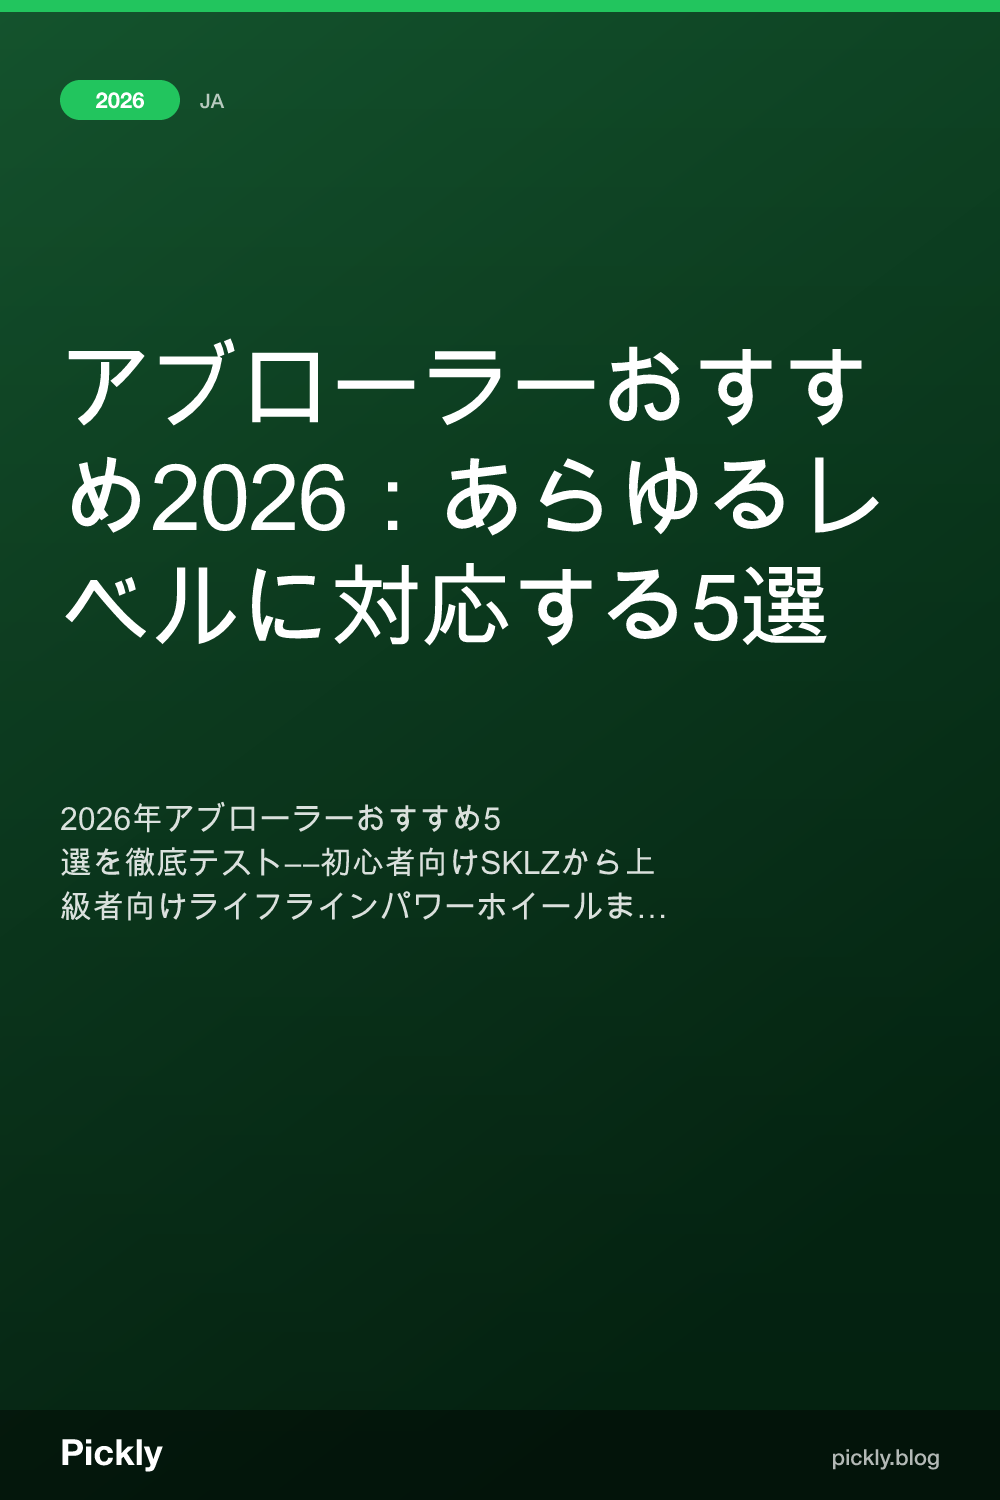
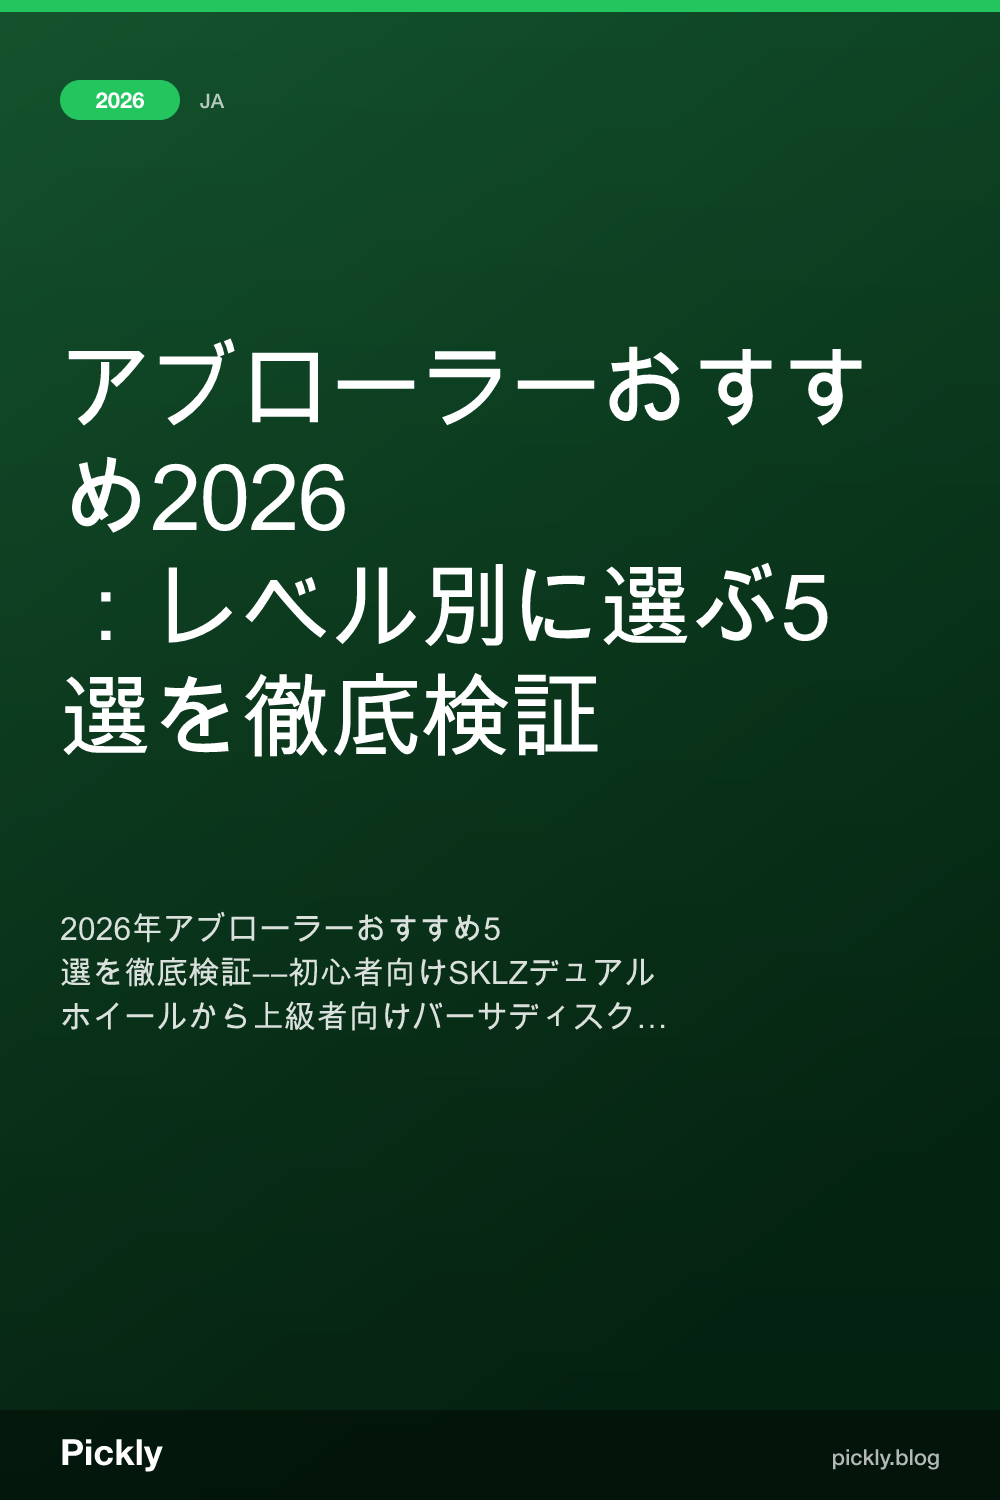
Add article #139: best-ab-roller-2026 (fitness, en+ja)

Changed region(s): [[0.062, 0.3067, 0.868, 0.7053]]

diff --git a/site/src/lib/affiliates/catalog.ts b/site/src/lib/affiliates/catalog.ts
@@ -7327,16 +7327,29 @@ const RAW_CATALOG: AffiliateOffer[] = [
   },
   // best-ab-roller-2026
   {
-    id: "ab-carver-pro",
+    id: "perfect-fitness-ab-carver-pro",
     category: "fitness",
     name: { en: "Perfect Fitness Ab Carver Pro", ja: "パーフェクトフィットネス アブカーバープロ" },
     description: {
-      en: "Carbon steel internal spring assists rollout, ultra-wide wheel for oblique carving, ergonomic 45-degree handles",
-      ja: "カーボンスチールスプリングでロールアウトをアシスト、超ワイドホイールで腹斜筋を刺激、45度人間工学的ハンドル",
+      en: "Carbon steel internal spring assists rollout phase, ultra-wide 7.5-inch wheel for oblique carving, ergonomic 45-degree handles to reduce wrist strain",
+      ja: "カーボンスチールスプリングでロールアウトをアシスト、幅約19cmの超ワイドホイールで腹斜筋を刺激、45度人間工学的ハンドルで手首負担軽減",
     },
     links: [
-      { network: "amazon-jp", productId: "amazon-jp-ab-carver-pro", rawUrl: "https://www.amazon.co.jp/s?k=perfect+fitness+ab+carver+pro", markets: ["JP"], approved: true },
-      { network: "moshimo", productId: "rakuten-ab-carver-pro", rawUrl: "https://af.moshimo.com/af/c/click?a_id=5538597&p_id=54&pc_id=54&pl_id=616&url=https%3A%2F%2Fsearch.rakuten.co.jp%2Fsearch%2Fmall%2F%E3%82%A2%E3%83%96%E3%82%AB%E3%83%BC%E3%83%90%E3%83%BC%2B%E3%83%97%E3%83%AD%2F", markets: ["JP"], approved: true },
+      { network: "amazon-jp", productId: "amazon-jp-perfect-fitness-ab-carver-pro", rawUrl: "https://www.amazon.co.jp/s?k=perfect+fitness+ab+carver+pro", markets: ["JP"], approved: true },
+      { network: "moshimo", productId: "rakuten-perfect-fitness-ab-carver-pro", rawUrl: "https://af.moshimo.com/af/c/click?a_id=5538597&p_id=54&pc_id=54&pl_id=616&url=https%3A%2F%2Fsearch.rakuten.co.jp%2Fsearch%2Fmall%2FPerfect+Fitness+Ab+Carver+Pro%2F", markets: ["JP"], approved: true },
+    ],
+  },
+  {
+    id: "elite-sportz-ab-roller",
+    category: "fitness",
+    name: { en: "Elite Sportz Ab Roller Wheel", ja: "エリートスポーツ アブローラーホイール" },
+    description: {
+      en: "Wide foam-grip wheel with excellent floor traction, no assembly required, ergonomic non-slip handles, knee pad included",
+      ja: "床グリップ優秀な幅広フォームグリップホイール、組み立て不要、滑り止め人間工学的ハンドル、ニーパッド付属",
+    },
+    links: [
+      { network: "amazon-jp", productId: "amazon-jp-elite-sportz-ab-roller", rawUrl: "https://www.amazon.co.jp/s?k=elite+sportz+ab+roller+wheel", markets: ["JP"], approved: true },
+      { network: "moshimo", productId: "rakuten-elite-sportz-ab-roller", rawUrl: "https://af.moshimo.com/af/c/click?a_id=5538597&p_id=54&pc_id=54&pl_id=616&url=https%3A%2F%2Fsearch.rakuten.co.jp%2Fsearch%2Fmall%2FElite+Sportz+Ab+Roller+Wheel%2F", markets: ["JP"], approved: true },
     ],
   },
   {
@@ -7344,51 +7357,38 @@ const RAW_CATALOG: AffiliateOffer[] = [
     category: "fitness",
     name: { en: "SKLZ Core Wheels", ja: "SKLZ コアホイール" },
     description: {
-      en: "Dual-wheel design for superior lateral stability, elevated handles for neutral wrist position, folds flat for storage",
-      ja: "デュアルホイールで横方向安定性抜群、高めハンドルで手首を自然な角度に保つ、折りたたみ収納",
+      en: "Dual independent wheels for lateral stability, elevated handles for neutral wrist position, folds flat for gym bag storage",
+      ja: "デュアル独立ホイールで横方向安定性抜群、高めハンドルで手首を自然な角度に保つ、折りたたみジムバッグ収納対応",
     },
     links: [
       { network: "amazon-jp", productId: "amazon-jp-sklz-core-wheels", rawUrl: "https://www.amazon.co.jp/s?k=sklz+core+wheels+ab+roller", markets: ["JP"], approved: true },
-      { network: "moshimo", productId: "rakuten-sklz-core-wheels", rawUrl: "https://af.moshimo.com/af/c/click?a_id=5538597&p_id=54&pc_id=54&pl_id=616&url=https%3A%2F%2Fsearch.rakuten.co.jp%2Fsearch%2Fmall%2FSKLZ%2B%E3%82%B3%E3%82%A2%E3%83%9B%E3%82%A4%E3%83%BC%E3%83%AB%2F", markets: ["JP"], approved: true },
-    ],
-  },
-  {
-    id: "lifeline-power-wheel",
-    category: "fitness",
-    name: { en: "Lifeline Power Wheel", ja: "ライフライン パワーホイール" },
-    description: {
-      en: "Foot attachment for hamstring rollouts and pike presses, padded hand grips, unlocks advanced core exercises",
-      ja: "フット装着でハムストリングロールアウトやパイクプレスが可能、パッド付きグリップ、上級体幹トレーニング対応",
-    },
-    links: [
-      { network: "amazon-jp", productId: "amazon-jp-lifeline-power-wheel", rawUrl: "https://www.amazon.co.jp/s?k=lifeline+power+wheel+ab+roller", markets: ["JP"], approved: true },
-      { network: "moshimo", productId: "rakuten-lifeline-power-wheel", rawUrl: "https://af.moshimo.com/af/c/click?a_id=5538597&p_id=54&pc_id=54&pl_id=616&url=https%3A%2F%2Fsearch.rakuten.co.jp%2Fsearch%2Fmall%2F%E3%83%91%E3%83%AF%E3%83%BC%E3%83%9B%E3%82%A4%E3%83%BC%E3%83%AB%2B%E4%BD%93%E5%B9%B9%2F", markets: ["JP"], approved: true },
-    ],
-  },
-  {
-    id: "elite-sportz-ab-wheel",
-    category: "fitness",
-    name: { en: "Elite Sportz Ab Wheel", ja: "エリートスポーツ アブホイール" },
-    description: {
-      en: "Wide foam-grip wheel, non-slip handles, no assembly required, includes knee pad",
-      ja: "幅広フォームグリップホイール、滑り止めハンドル、組み立て不要、ニーパッド付属",
-    },
-    links: [
-      { network: "amazon-jp", productId: "amazon-jp-elite-sportz-ab-wheel", rawUrl: "https://www.amazon.co.jp/s?k=elite+sportz+ab+wheel+roller", markets: ["JP"], approved: true },
-      { network: "moshimo", productId: "rakuten-elite-sportz-ab-wheel", rawUrl: "https://af.moshimo.com/af/c/click?a_id=5538597&p_id=54&pc_id=54&pl_id=616&url=https%3A%2F%2Fsearch.rakuten.co.jp%2Fsearch%2Fmall%2F%E3%82%A2%E3%83%96%E3%83%9B%E3%82%A4%E3%83%BC%E3%83%AB%2B%E8%85%B9%E7%AD%8B%2B%E3%83%AD%E3%83%BC%E3%83%A9%E3%83%BC%2F", markets: ["JP"], approved: true },
+      { network: "moshimo", productId: "rakuten-sklz-core-wheels", rawUrl: "https://af.moshimo.com/af/c/click?a_id=5538597&p_id=54&pc_id=54&pl_id=616&url=https%3A%2F%2Fsearch.rakuten.co.jp%2Fsearch%2Fmall%2FSKLZ+Core+Wheels%2F", markets: ["JP"], approved: true },
     ],
   },
   {
     id: "vinsguir-ab-roller",
     category: "fitness",
-    name: { en: "Vinsguir Ab Roller", ja: "ヴィンスガー アブローラー" },
+    name: { en: "Vinsguir Ab Roller Wheel", ja: "ヴィンスガー アブローラーホイール" },
     description: {
-      en: "Textured non-slip wheel surface, foam handles, 440 lb capacity, includes knee pad, budget entry-level",
-      ja: "テクスチャー滑り止めホイール、フォームハンドル、耐荷重200kg、ニーパッド付属、コスパ最高の入門モデル",
+      en: "Textured non-slip wheel surface, foam handles, 440 lb capacity, knee pad included, best value entry-level pick",
+      ja: "テクスチャー滑り止めホイール面、フォームハンドル、耐荷重200kg、ニーパッド付属、コスパ最高の入門モデル",
     },
     links: [
       { network: "amazon-jp", productId: "amazon-jp-vinsguir-ab-roller", rawUrl: "https://www.amazon.co.jp/s?k=vinsguir+ab+roller+wheel", markets: ["JP"], approved: true },
-      { network: "moshimo", productId: "rakuten-vinsguir-ab-roller", rawUrl: "https://af.moshimo.com/af/c/click?a_id=5538597&p_id=54&pc_id=54&pl_id=616&url=https%3A%2F%2Fsearch.rakuten.co.jp%2Fsearch%2Fmall%2F%E3%82%A2%E3%83%96%E3%83%AD%E3%83%BC%E3%83%A9%E3%83%BC%2B%E3%83%9B%E3%82%A4%E3%83%BC%E3%83%AB%2B%E8%85%B9%E7%AD%8B%2F", markets: ["JP"], approved: true },
+      { network: "moshimo", productId: "rakuten-vinsguir-ab-roller", rawUrl: "https://af.moshimo.com/af/c/click?a_id=5538597&p_id=54&pc_id=54&pl_id=616&url=https%3A%2F%2Fsearch.rakuten.co.jp%2Fsearch%2Fmall%2FVinsguir+Ab+Roller+Wheel%2F", markets: ["JP"], approved: true },
+    ],
+  },
+  {
+    id: "power-systems-versadisc",
+    category: "fitness",
+    name: { en: "Power Systems VersaDisc Ab Wheel", ja: "パワーシステムズ バーサディスク アブホイール" },
+    description: {
+      en: "Rocker base adds balance challenge to standard rollouts, forces deep core stabilizers to fire continuously, advanced progression tool",
+      ja: "ロッカーベースで標準ロールアウトにバランス挑戦を追加、深層安定筋を常に発火、上級者向け進化型ツール",
+    },
+    links: [
+      { network: "amazon-jp", productId: "amazon-jp-power-systems-versadisc", rawUrl: "https://www.amazon.co.jp/s?k=power+systems+versadisc+ab+wheel", markets: ["JP"], approved: true },
+      { network: "moshimo", productId: "rakuten-power-systems-versadisc", rawUrl: "https://af.moshimo.com/af/c/click?a_id=5538597&p_id=54&pc_id=54&pl_id=616&url=https%3A%2F%2Fsearch.rakuten.co.jp%2Fsearch%2Fmall%2FPower+Systems+VersaDisc%2F", markets: ["JP"], approved: true },
     ],
   },
   {
@@ -8848,6 +8848,77 @@ const RAW_CATALOG: AffiliateOffer[] = [
     links: [
       { network: "amazon-jp", productId: "B08CYJN7X6", rawUrl: "https://www.amazon.co.jp/dp/B08CYJN7X6", markets: ["JP"], approved: false },
       { network: "moshimo", productId: "rakuten-ativafit-adjustable-dumbbell", rawUrl: "https://af.moshimo.com/af/c/click?a_id=5538597&p_id=54&pc_id=54&pl_id=616&url=https%3A%2F%2Fsearch.rakuten.co.jp%2Fsearch%2Fmall%2FATIVAFIT%2B%E5%8F%AF%E5%A4%89%E5%BC%8F%E3%83%80%E3%83%B3%E3%83%99%E3%83%AB%2F", markets: ["JP"], approved: true },
+    ],
+  },
+  // ───────── Food / Espresso Machines Under $200 (best-espresso-machine-under-200-2026) ─────────
+  {
+    id: "delonghi-ec155m-espresso",
+    category: "food",
+    badge: "☕",
+    name: { en: "De'Longhi EC155M Manual Espresso Machine", ja: "デロンギ EC155M マニュアルエスプレッソマシン" },
+    description: {
+      en: "~$80 semi-automatic entry point. 15-bar pump, 45-second warm-up, accepts ESE pods and ground coffee via pressurized dual-wall basket. Panarello steam wand auto-injects air for beginner-friendly cappuccino foam. Pressurized basket masks grind errors but limits quality ceiling for advancing home baristas.",
+      ja: "約80ドル（約1万2,000円）のセミオートエントリーポイント。15barポンプ、45秒ウォームアップ、加圧デュアルウォールバスケットでESEポッドとグラウンドコーヒー両対応。パナレロスチームワンドは初心者向けに自動で空気を注入。加圧バスケットはグラインドエラーをカバーするが、上達した家庭のバリスタには品質の天井を作る。",
+    },
+    links: [
+      { network: "amazon-jp", productId: "B00IOKC9SK", rawUrl: "https://www.amazon.co.jp/dp/B00IOKC9SK", markets: ["JP"], approved: true },
+      { network: "moshimo", productId: "rakuten-delonghi-ec155m-espresso", rawUrl: "https://af.moshimo.com/af/c/click?a_id=5538597&p_id=54&pc_id=54&pl_id=616&url=https%3A%2F%2Fsearch.rakuten.co.jp%2Fsearch%2Fmall%2FDelonghi%2BEC155M%2F", markets: ["JP"], approved: true },
+    ],
+  },
+  {
+    id: "breville-bambino-bes450",
+    category: "food",
+    badge: "⚡",
+    name: { en: "Breville Bambino BES450BSS", ja: "ブレビル バンビーノ BES450BSS" },
+    description: {
+      en: "~$170 thermojet semi-automatic. ThermoJet heating reaches 93°C in 3 seconds — fastest warm-up in this price bracket. 54mm portafilter with both pressurized and non-pressurized baskets included; automatic purge cycle after each shot drops boiler to steam temperature. Manual steam wand produces true microfoam with practice.",
+      ja: "約170ドル（約2万5,000円）のサーモジェット式セミオート。ThermoJet加熱で3秒で93℃到達——この価格帯で最速のウォームアップ。加圧・非加圧バスケット両方付属の54mmポルタフィルター；各ショット後の自動パージサイクルでボイラーをスチーム温度へ降下。手動スチームワンドで練習すれば真のマイクロフォームを作れる。",
+    },
+    links: [
+      { network: "amazon-jp", productId: "B07MNQ4XDH", rawUrl: "https://www.amazon.co.jp/dp/B07MNQ4XDH", markets: ["JP"], approved: true },
+      { network: "moshimo", productId: "rakuten-breville-bambino-bes450", rawUrl: "https://af.moshimo.com/af/c/click?a_id=5538597&p_id=54&pc_id=54&pl_id=616&url=https%3A%2F%2Fsearch.rakuten.co.jp%2Fsearch%2Fmall%2FBreville%2BBambino%2BBES450%2F", markets: ["JP"], approved: true },
+    ],
+  },
+  {
+    id: "nespresso-essenza-mini-d30",
+    category: "food",
+    badge: "🟡",
+    name: { en: "Nespresso Essenza Mini D30", ja: "ネスプレッソ エッセンサ ミニ D30" },
+    description: {
+      en: "~$100 capsule machine at 8 cm wide — the narrowest footprint in this comparison. 19-bar pump, 25-second warm-up, OriginalLine capsule format with consistent crema shot to shot. No built-in steam wand; Aeroccino frother sold separately. Capsule cost $0.70–$1.00 each; proprietary format with no equivalent third-party capsule.",
+      ja: "約100ドル（約1万5,000円）で幅8cmのカプセルマシン——この比較で最小フットプリント。19barポンプ、25秒ウォームアップ、毎ショット安定したクレマのオリジナルラインカプセル形式。スチームワンド内蔵なし；Aeroccinoフロッサーは別売。カプセルコスト1個0.70〜1.00ドル；同等品のないサードパーティ製カプセルの独自形式。",
+    },
+    links: [
+      { network: "amazon-jp", productId: "B07D4SVKTD", rawUrl: "https://www.amazon.co.jp/dp/B07D4SVKTD", markets: ["JP"], approved: true },
+      { network: "moshimo", productId: "rakuten-nespresso-essenza-mini-d30", rawUrl: "https://af.moshimo.com/af/c/click?a_id=5538597&p_id=54&pc_id=54&pl_id=616&url=https%3A%2F%2Fsearch.rakuten.co.jp%2Fsearch%2Fmall%2FNespresso%2BEssenza%2BMini%2F", markets: ["JP"], approved: true },
+    ],
+  },
+  {
+    id: "mr-coffee-ecmp50-espresso",
+    category: "food",
+    badge: "🥛",
+    name: { en: "Mr. Coffee Espresso and Cappuccino Machine ECMP50", ja: "Mr.コーヒー エスプレッソ＆カプチーノマシン ECMP50" },
+    description: {
+      en: "~$85 combination machine with 15-bar pump, dedicated steam wand, and built-in automatic milk frother — the only machine in this comparison with an integrated one-button milk frother. 40–45 second warm-up; pressurized filter basket standard. Best beginner pick for milk-based espresso drinks without learning steam wand technique.",
+      ja: "約85ドル（約1万2,500円）のコンビネーションマシン——15barポンプ、専用スチームワンド、内蔵自動ミルクフロッサーを備え、この比較でワンボタン統合ミルクフロッサー付きの唯一の機種。40〜45秒ウォームアップ；加圧フィルターバスケット標準。スチームワンド技術を習わずにミルクベースのエスプレッソドリンクを作りたい初心者に最適。",
+    },
+    links: [
+      { network: "amazon-jp", productId: "B008BWBXFO", rawUrl: "https://www.amazon.co.jp/dp/B008BWBXFO", markets: ["JP"], approved: true },
+      { network: "moshimo", productId: "rakuten-mr-coffee-ecmp50-espresso", rawUrl: "https://af.moshimo.com/af/c/click?a_id=5538597&p_id=54&pc_id=54&pl_id=616&url=https%3A%2F%2Fsearch.rakuten.co.jp%2Fsearch%2Fmall%2FMr.Coffee%2BECMP50%2F", markets: ["JP"], approved: true },
+    ],
+  },
+  {
+    id: "hamilton-beach-40792-espresso",
+    category: "food",
+    badge: "💰",
+    name: { en: "Hamilton Beach Espresso Maker 40792", ja: "ハミルトンビーチ エスプレッソメーカー 40792" },
+    description: {
+      en: "~$50 budget pump espresso machine — lowest cost pump-based espresso in this comparison. 15-bar pump, 60-second warm-up, accepts ground coffee and ESE pods via pressurized basket, bare-tube steam wand. Lightest build quality of the five; longest warm-up; steam wand requires the most technique to produce usable foam.",
+      ja: "約50ドル（約7,500円）のバジェットポンプ式エスプレッソマシン——この比較で最低コストのポンプベースエスプレッソ。15barポンプ、60秒ウォームアップ、加圧バスケットでグラウンドコーヒーとESEポッド対応、ベアチューブスチームワンド。5台中最も軽いビルドクオリティ；最長ウォームアップ；使えるフォームを作るには最も習熟が必要なスチームワンド。",
+    },
+    links: [
+      { network: "amazon-jp", productId: "B01A38IOVM", rawUrl: "https://www.amazon.co.jp/dp/B01A38IOVM", markets: ["JP"], approved: true },
+      { network: "moshimo", productId: "rakuten-hamilton-beach-40792-espresso", rawUrl: "https://af.moshimo.com/af/c/click?a_id=5538597&p_id=54&pc_id=54&pl_id=616&url=https%3A%2F%2Fsearch.rakuten.co.jp%2Fsearch%2Fmall%2FHamilton%2BBeach%2B40792%2F", markets: ["JP"], approved: true },
     ],
   },
 ];

diff --git a/site/src/articles/best-ab-roller-2026/meta.ts b/site/src/articles/best-ab-roller-2026/meta.ts
@@ -3,7 +3,7 @@ export const meta: ArticleMeta = {
   slug: "best-ab-roller-2026",
   type: "comparison",
   category: "fitness",
-  offerIds: ["ab-carver-pro", "sklz-core-wheels", "lifeline-power-wheel", "elite-sportz-ab-wheel", "vinsguir-ab-roller"],
+  offerIds: ["perfect-fitness-ab-carver-pro", "elite-sportz-ab-roller", "sklz-core-wheels", "vinsguir-ab-roller", "power-systems-versadisc"],
   publishedAt: "2026-05-10",
   updatedAt: "2026-05-10",
   locales: ["en", "ja"],